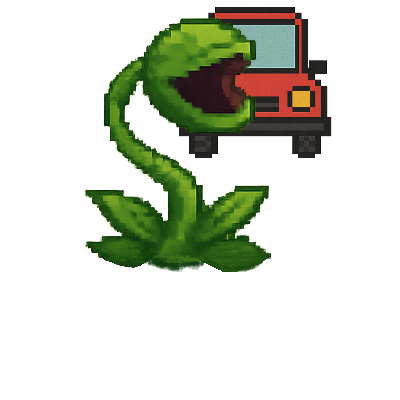
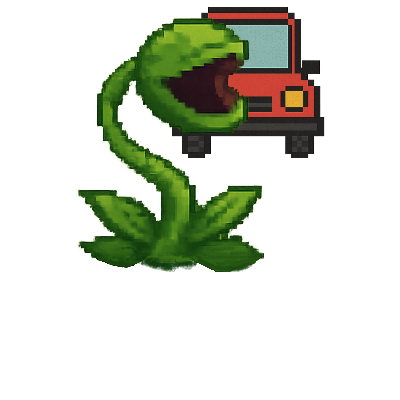
a

Changed region(s): [[0.18, 0.0, 0.84, 0.69], [0.27, 0.66, 0.3, 0.69]]

diff --git a/DxLib_TGS2025/Src/Object/WoodRock.cpp b/DxLib_TGS2025/Src/Object/WoodRock.cpp
@@ -734,7 +734,7 @@ void WoodEffect(int x, int y)
 		wood.add_anim_x[x][y] = 0;
 	}
 
-	DrawRotaGraph(x * 80 + 200, y * 80 + 120, 1.0, 0.0, wood.effect_image[wood.effect_num], TRUE);
+	DrawRotaGraph(x * 80 + 200, y * 80 + 120, 1.2, 0.0, wood.effect_image[wood.effect_num], TRUE);
 }
 
 //岩のエフェクト
@@ -758,7 +758,7 @@ void RockEffect(int x, int y)
 		rock.effect_flag = false;
 	}
 	
-	DrawRotaGraph(x * 80 + 200, y * 80 + 120, 1.0, 0.0, rock.effect_image[rock.effect_num],TRUE);
+	DrawRotaGraph(x * 80 + 200, y * 80 + 120, 1.2, 0.0, rock.effect_image[rock.effect_num],TRUE);
 }
 
 //モグラが木を置くときのエフェクト
@@ -802,7 +802,7 @@ void PutRockEffect(int x, int y)
 		rock.put_effect_count[x][y] = 0;
 		rock.put_effect_flag[x][y] = false;
 	}
-	DrawRotaGraph(x * 80 + 200, y * 80 + 120, 1.0, 0.0, rock.put_effect_image[rock.put_effect_num[x][y]], TRUE);
+	DrawRotaGraph(x * 80 + 200, y * 80 + 120, 1.5, 0.0, rock.put_effect_image[rock.put_effect_num[x][y]], TRUE);
 
 
 }
